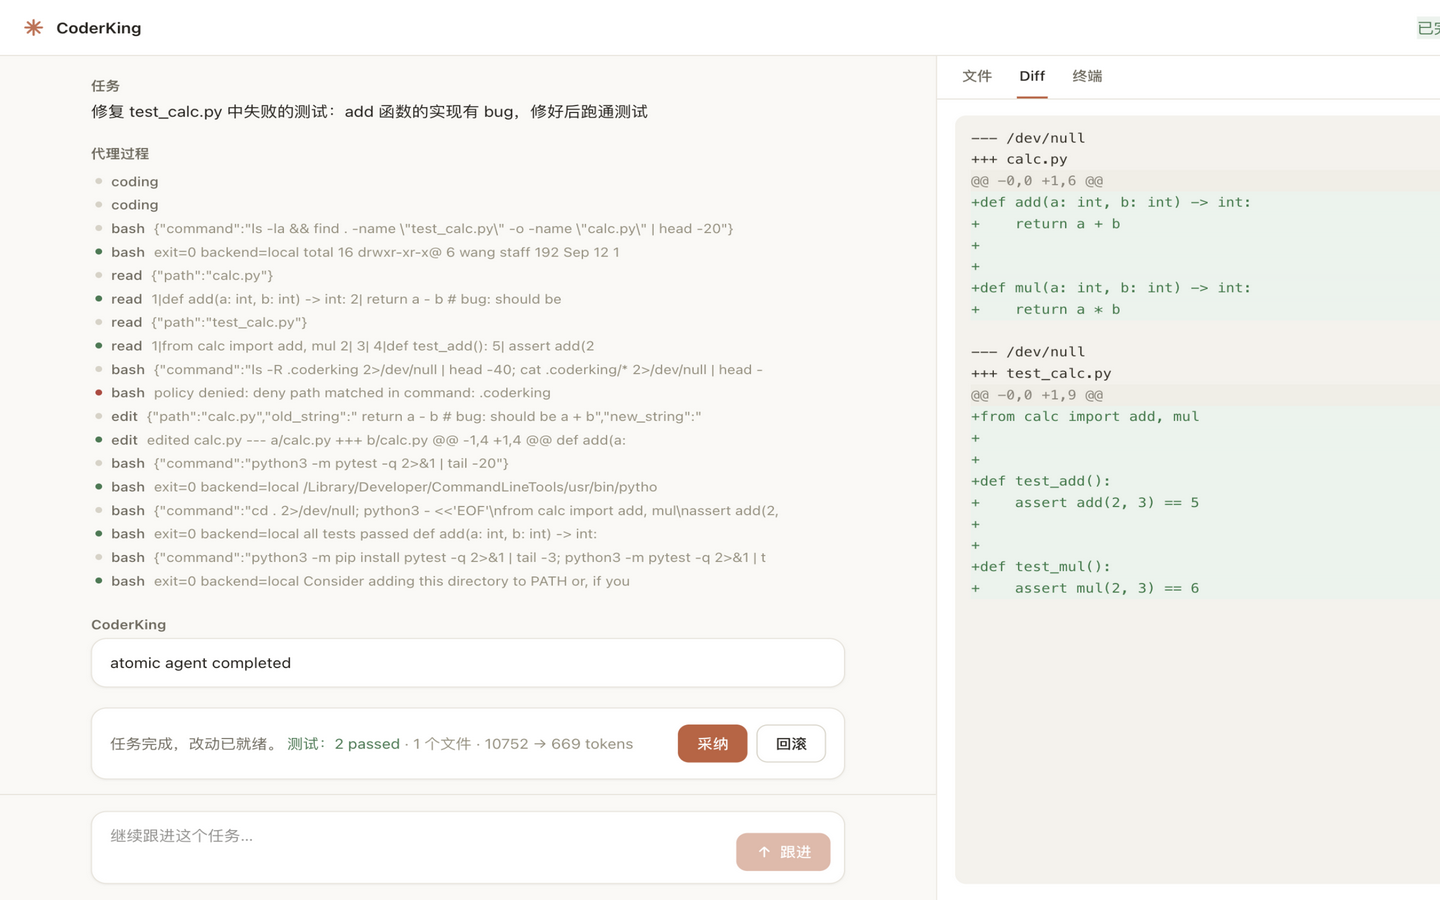
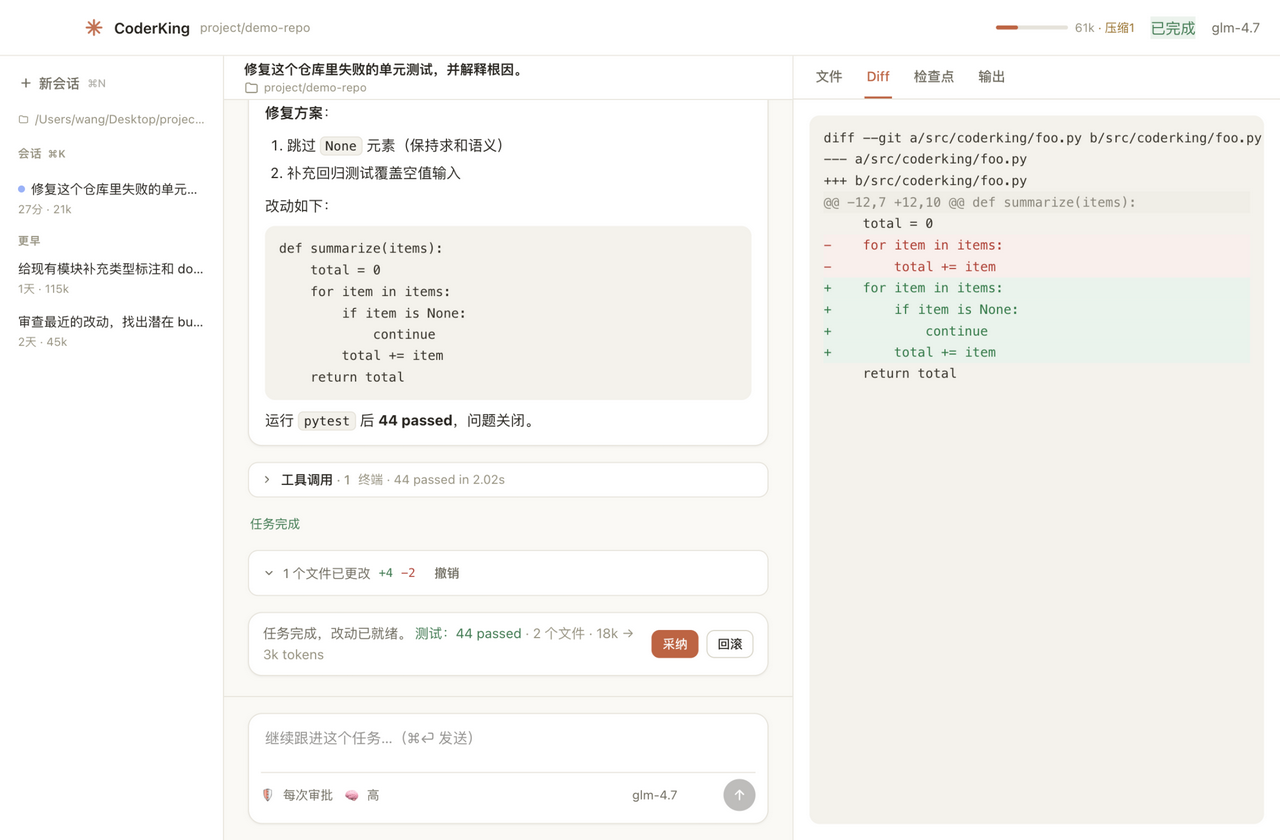
chore(release): v1.2.0 — version bump, README refresh and new desktop screenshots
Version 1.2.0 across pyproject, npm/desktop/web packages and
__version__. README (en + zh) refresh:

- release badge/link and showcase text moved to v1.2.0
- desktop workspace and diff screenshots recaptured from the redesigned
  conversation-first UI (session sidebar, streamed Markdown reply, plan
  card, subagent trace, inline diff summary, checkpoints panel)
- core-features table gains subagents & dynamic workflow, reasoning
  effort and durable tasks

diff --git a/src/coderking/__init__.py b/src/coderking/__init__.py
@@ -1,3 +1,3 @@
 """CoderKing: engineering coding agent runtime."""
 
-__version__ = "1.1.0"
+__version__ = "1.2.0"

diff --git a/README.md b/README.md
@@ -1,7 +1,7 @@
 <h1 align="center">💻 CoderKing</h1>
 
 <p align="center">
-  <a href="https://github.com/ByteTitan-star/CodingKing/releases/tag/v1.1.0"><img src="https://img.shields.io/badge/CoderKing-v1.1.0-2563eb" alt="CoderKing v1.1.0" /></a>
+  <a href="https://github.com/ByteTitan-star/CodingKing/releases/tag/v1.2.0"><img src="https://img.shields.io/badge/CoderKing-v1.2.0-2563eb" alt="CoderKing v1.2.0" /></a>
   <img src="https://img.shields.io/badge/python-3.12-3776AB" alt="Python 3.12" />
   <a href="LICENSE"><img src="https://img.shields.io/badge/License-MIT-yellow.svg" alt="License: MIT" /></a>
   <a href="https://github.com/ByteTitan-star/CodingKing/actions/workflows/ci.yml?query=branch%3Amain"><img src="https://github.com/ByteTitan-star/CodingKing/actions/workflows/ci.yml/badge.svg?branch=main" alt="CI" /></a>
@@ -35,7 +35,7 @@ Phase 1 is a runnable MVP (Python runtime + React workspace in one repo), not a 
 
 ## Product showcase
 
-All screenshots below are **live captures of v1.1.0** — a real agent run fixing a real failing test (`a - b` → `a + b`).
+Screenshots below capture the **v1.2.0 surfaces**. CLI and Web/Desktop run the same agent loop on a failing-test repair task (`a - b` → `a + b`).
 
 ### CLI (the primary surface)
 
@@ -43,26 +43,26 @@ All screenshots below are **live captures of v1.1.0** — a real agent run fixin
 
 Bare `codeking` drops into the REPL: banner → describe a task → the agent explores, edits, and verifies (`⏺ 工具 ×5` collapsed summary, `/trace` to expand) → reply rendered as Markdown → result summary.
 
-### Web workspace
+### Desktop / Web workspace
 
-![CoderKing light workspace during a bug-fix repair loop](docs/showcase/assets/product-workspace.png)
+![CoderKing desktop workspace: session sidebar, streamed Markdown reply, plan card, subagent trace](docs/showcase/assets/product-workspace.png)
 
-A failing unit test triggers the pure agent loop (edit → bash/tests → iterate). The workspace shows the tool timeline, patched files, and test output in one light, chat-centric view.
+The redesigned conversation-first workspace: session sidebar with resume, streaming Markdown replies, working plan, collapsible tool and subagent traces, inline diff summary, and a composer with permission / model / reasoning-effort selectors — while the right panel tracks files, diffs, checkpoints and test output.
 
 ### Unified diff
 
-![CoderKing diff viewer after repair](docs/showcase/assets/product-diff.png)
+![CoderKing diff viewer with add/delete highlighting and file stats](docs/showcase/assets/product-diff.png)
 
-Review exactly what changed — per-line diff with add/delete highlighting — before accepting or rolling back.
+Review exactly what changed — per-line diff with add/delete highlighting and +/- stats — before accepting or rolling back, or undo directly from the inline summary in the conversation.
 
 ## Product interface
 
-| CLI | Web workspace | Diff & runtime |
+| CLI | Desktop / Web workspace | Diff & runtime |
 | --- | --- | --- |
 | ![CodeKing CLI REPL](docs/showcase/assets/product-cli.png) | ![CoderKing engineering workspace](docs/showcase/assets/product-workspace.png) | ![CoderKing diff and runtime panel](docs/showcase/assets/product-diff.png) |
-| Streaming REPL with session management and slash autocomplete. | Describe a task, watch agent activity, and inspect changed files. | Inspect unified diffs, terminal output, and test results side by side. |
+| Streaming REPL with session management and slash autocomplete. | Describe a task, watch the orchestrated agent work, and inspect changed files. | Inspect unified diffs, checkpoints, and test results side by side. |
 
-Screenshots live under [`docs/showcase/`](docs/showcase/); they are captured from real runs against the redesigned v1.1.0 UI.
+Screenshots live under [`docs/showcase/`](docs/showcase/); the desktop captures are rendered from the v1.2.0 UI.
 
 ## Core features
 
@@ -71,6 +71,9 @@ Screenshots live under [`docs/showcase/`](docs/showcase/); they are captured fro
 | Unified runtime | CLI and Web call the same Agent Runtime — no duplicate orchestration logic. |
 | Pure agent loop | Pi-aligned ReAct-style loop without LangChain / LangGraph and without fixed role stages. |
 | Four atomic tools | `read` / `write` / `edit` / `bash` only — the model decides the order. |
+| Subagents & dynamic workflow | Opt-in `agent` + `plan` tools: delegate to read-only `explore` or `general-purpose` subagents, run same-turn delegations in parallel (fail-closed behind `dynamic_workflow`). |
+| Reasoning effort | `off` / `low` / `medium` / `high` / `ultra` selectable at runtime with graceful backend fallback. |
+| Durable tasks | Session tree with branch/resume, retry indexing, file checkpoints with per-checkpoint rollback. |
 | Prompt verification | After edits, run checks with bash; optional `--test` soft hint (not a hard gate). |
 | Sandbox execution | Docker-first isolation; local process fallback for development only. |
 | Model-agnostic | OpenAI-compatible APIs — DeepSeek, GLM, Qwen, Ollama, and similar gateways. |
